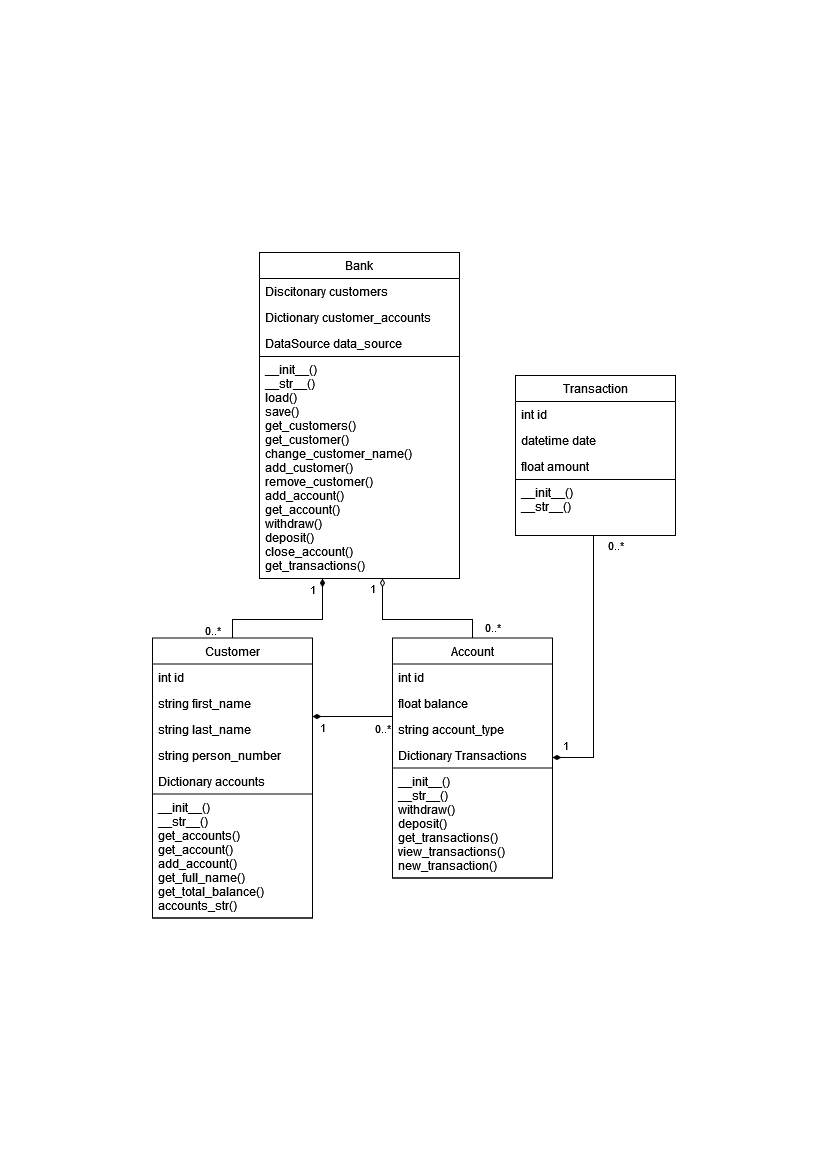
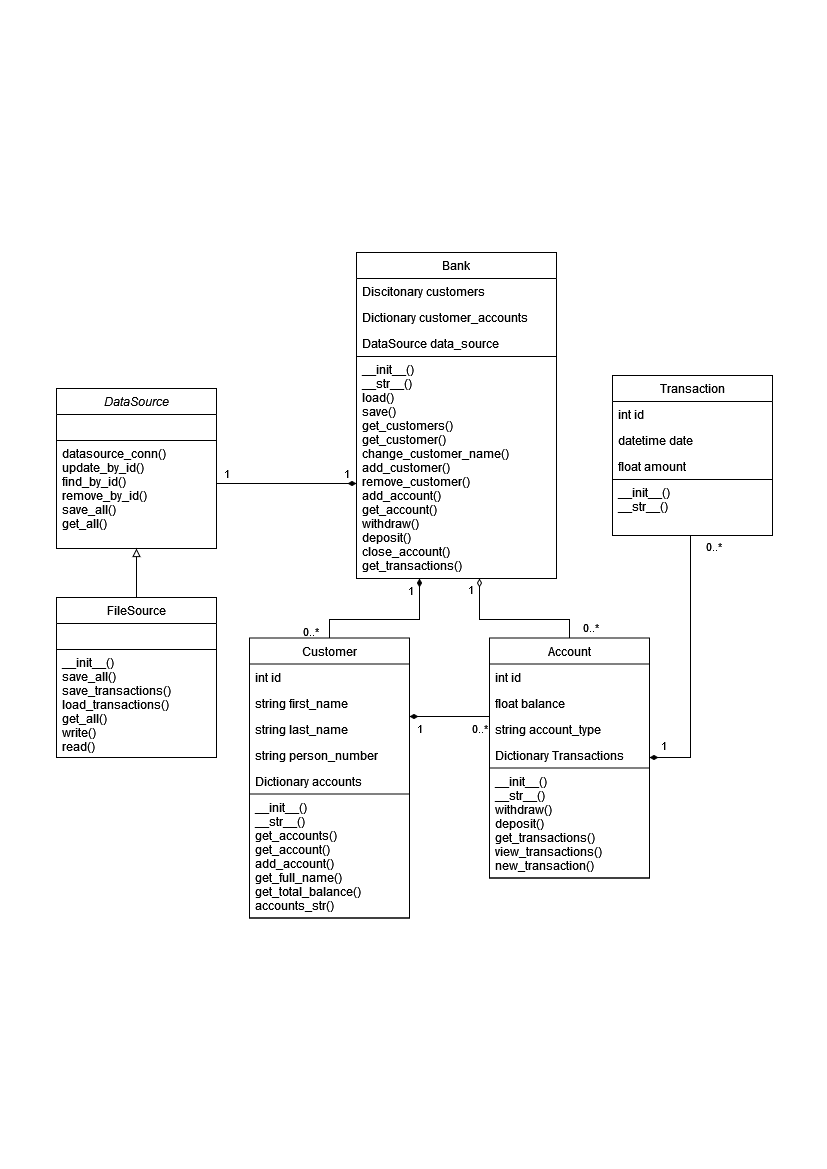
Datasource changes

diff --git a/DataSource.py b/DataSource.py
@@ -1,27 +1,7 @@
-import datetime
-
-from Account import Account
-from Customer import Customer
-from Transaction import Transaction
+from abc import ABC, abstractmethod
 
 
-# Writes string to file
-def __write__(file_name, text):
-    file = open(file_name, "wt")
-    file.write(text)
-    file.close()
-    pass
-
-
-# Returns all lines as string from file
-def __read__(file_name):
-    file = open(file_name, "rt")
-    text = file.read()
-    file.close()
-    return text
-
-
-class DataSource:
+class DataSource(ABC):
 
     def datasource_conn(self):
         pass
@@ -37,72 +17,8 @@ class DataSource:
 
     # Saves all customer data to file.
     def save_all(self, customers):
-        text = ""
-        for customer in customers.values():
-            text += "%s:%s:%s:%s," % (customer.id, customer.first_name, customer.last_name, customer.person_number)
-            for account in customer.get_accounts().values():
-                text += "%s:%s:%s#" % (account.id, account.type, account.balance)
-            text = text[0:-1] + "\n"
-        __write__("data/customers.txt", text)
-        self.__save_transactions__(customers)
-
-    # Saves all the transactions to file.
-    def __save_transactions__(self, customers):
-        text = ""
-        for customer in customers.values():
-            for account in customer.get_accounts().values():
-                text += str(account.id) + ","
-                for transaction in account.get_transactions().values():
-                    text += "%s;%s;%s#" % (transaction.id, transaction.date.strftime("%Y-%m-%d %H:%M:%S"), transaction.amount)
-                text = text[0:-1] + "\n"
-        __write__("data/transactions.txt", text)
-
-    # Returns a dictionary with all transactions
-    def __get_all_transactions__(self):
-        all_transactions = {}
-        lines = __read__("data/transactions.txt").split("\n")
-
-        for line in lines:
-            if len(line) == 0:
-                continue
-            account_transactions = {}
-            data = line.split(",")
-            account_id = int(data[0])
-            if len(data) > 1 and len(data[1]) > 0:
-                for transaction in data[1].split("#"):
-                    transaction_details = transaction.split(";")
-                    transaction_id = int(transaction_details[0])
-                    # date = transaction_details[1]
-                    # print(transaction_details[1])
-                    date = datetime.datetime.strptime(transaction_details[1], '%Y-%m-%d %H:%M:%S')
-                    amount = transaction_details[2]
-                    account_transactions[transaction_id] = Transaction(transaction_id, date, amount)
-            all_transactions[account_id] = account_transactions
-        return all_transactions
+        pass
 
     # Returns all customer data.
     def get_all(self):
-        customers = {}
-        all_transactions = self.__get_all_transactions__()
-        lines = __read__("data/customers.txt").split("\n")
-        for line in lines:
-            accounts = {}
-            if len(line) == 0:
-                continue
-            all_data = line.split(',')
-            personal_data = all_data[0].split(":")
-            customer_id = int(personal_data[0])
-            first_name = personal_data[1]
-            last_name = personal_data[2]
-            person_number = personal_data[3]
-            if len(all_data) > 1:
-                for all_account_data in all_data[1].split("#"):
-                    account_data = all_account_data.split(":")
-                    account_id = int(account_data[0])
-                    account_type = account_data[1]
-                    account_balance = float(account_data[2])
-                    transactions = all_transactions.get(account_id)
-                    account = Account(account_id, account_type, account_balance, transactions if transactions else {})
-                    accounts[account_id] = account
-            customers[customer_id] = Customer(customer_id, first_name, last_name, person_number, accounts)
-        return customers
+        pass

diff --git a/data/FileSource.py b/data/FileSource.py
@@ -1,0 +1,97 @@
+import datetime
+
+from Account import Account
+from Customer import Customer
+from DataSource import DataSource
+from Transaction import Transaction
+
+
+class FileSource(DataSource):
+
+    def __init__(self):
+        pass
+
+    # Writes string to file
+    def write(self, file_name, text):
+        file = open(file_name, "wt")
+        file.write(text)
+        file.close()
+        pass
+
+    # Returns all lines as string from file
+    def read(self, file_name):
+        file = open(file_name, "rt")
+        text = file.read()
+        file.close()
+        return text
+
+    # Saves all the transactions to file.
+    def save_transactions(self, customers):
+        text = ""
+        for customer in customers.values():
+            for account in customer.get_accounts().values():
+                text += str(account.id) + ","
+                for transaction in account.get_transactions().values():
+                    text += "%s;%s;%s#" % (transaction.id, transaction.date.strftime("%Y-%m-%d %H:%M:%S"), transaction.amount)
+                text = text[0:-1] + "\n"
+        self.write("data/transactions.txt", text)
+
+    # Returns a dictionary with all transactions
+    def load_transactions(self):
+        all_transactions = {}
+        lines = self.read("data/transactions.txt").split("\n")
+
+        for line in lines:
+            if len(line) == 0:
+                continue
+            account_transactions = {}
+            data = line.split(",")
+            account_id = int(data[0])
+            if len(data) > 1 and len(data[1]) > 0:
+                for transaction in data[1].split("#"):
+                    transaction_details = transaction.split(";")
+                    transaction_id = int(transaction_details[0])
+                    date = datetime.datetime.strptime(transaction_details[1], '%Y-%m-%d %H:%M:%S')
+                    amount = transaction_details[2]
+                    account_transactions[transaction_id] = Transaction(transaction_id, date, amount)
+            all_transactions[account_id] = account_transactions
+        return all_transactions
+
+    # Saves all customer data to file.
+    def save_all(self, customers):
+        text = ""
+        for customer in customers.values():
+            text += "%s:%s:%s:%s," % (customer.id, customer.first_name, customer.last_name, customer.person_number)
+            for account in customer.get_accounts().values():
+                text += "%s:%s:%s#" % (account.id, account.type, account.balance)
+            text = text[0:-1] + "\n"
+        self.write("data/customers.txt", text)
+        self.save_transactions(customers)
+
+    # Returns all customer data.
+    def get_all(self):
+        customers = {}
+        all_transactions = self.load_transactions()
+        lines = self.read("data/customers.txt").split("\n")
+        for line in lines:
+            accounts = {}
+            if len(line) == 0:
+                continue
+            all_data = line.split(',')
+            personal_data = all_data[0].split(":")
+            customer_id = int(personal_data[0])
+            first_name = personal_data[1]
+            last_name = personal_data[2]
+            person_number = personal_data[3]
+            if len(all_data) > 1:
+                for all_account_data in all_data[1].split("#"):
+                    account_data = all_account_data.split(":")
+                    account_id = int(account_data[0])
+                    account_type = account_data[1]
+                    account_balance = float(account_data[2])
+                    transactions = all_transactions.get(account_id)
+                    account = Account(account_id, account_type, account_balance, transactions if transactions else {})
+                    accounts[account_id] = account
+            customers[customer_id] = Customer(customer_id, first_name, last_name, person_number, accounts)
+        return customers
+

diff --git a/main.py b/main.py
@@ -4,6 +4,9 @@ from Bank import Bank
 
 
 # clears screen and optionally prints message
+from data.FileSource import FileSource
+
+
 def clear(num, msg=""):
     print(num * "\n" + msg)
 
@@ -48,7 +51,8 @@ def stringput(prompt, badinp="%s är ej giltigt."):
 
 class Main:
     def __init__(self):
-        self.bank = Bank()
+        datasource = FileSource()
+        self.bank = Bank(datasource)
         self.current_customer = None
         self.start_ui()
         self.bank.save()
@@ -172,7 +176,7 @@ class Main:
     def bank_remove_customer_ui(self, customer):
         inp = input("Ange personnumret for att slutföra radering.\n")
         if inp == customer.person_number:
-            self.bank.remove_customer(customer.person_number)
+            print(self.bank.remove_customer(customer.person_number))
             print("Kundkontot för %s togs bort." % customer.get_full_name())
         else:
             print("Du angav fel personnummer.")

diff --git a/Bank.py b/Bank.py
@@ -17,7 +17,10 @@ def get_new_id(start_id, dict):
 
 class Bank:
 
-    def __init__(self):
+    def __init__(self, DataSource: DataSource):
+        self.datasource = DataSource
+        self.customers = None
+
         self.load()
         self.all_customer_accounts = {}
         for customer in self.customers.values():
@@ -30,7 +33,6 @@ class Bank:
 
     # Load data from the data source class.
     def load(self):
-        self.datasource = DataSource()
         self.customers = self.datasource.get_all()
 
     # Returns a dictionary with all accounts
@@ -73,7 +75,7 @@ class Bank:
     def remove_customer(self, person_number):
         customer = self.get_customer(person_number)
         del self.customers[customer.id]
-        return customer.accounts_str()
+        return customer.get_total_balance()
 
     # Add account to existing customer.
     # returns newly created id. -1 if no account was created.
